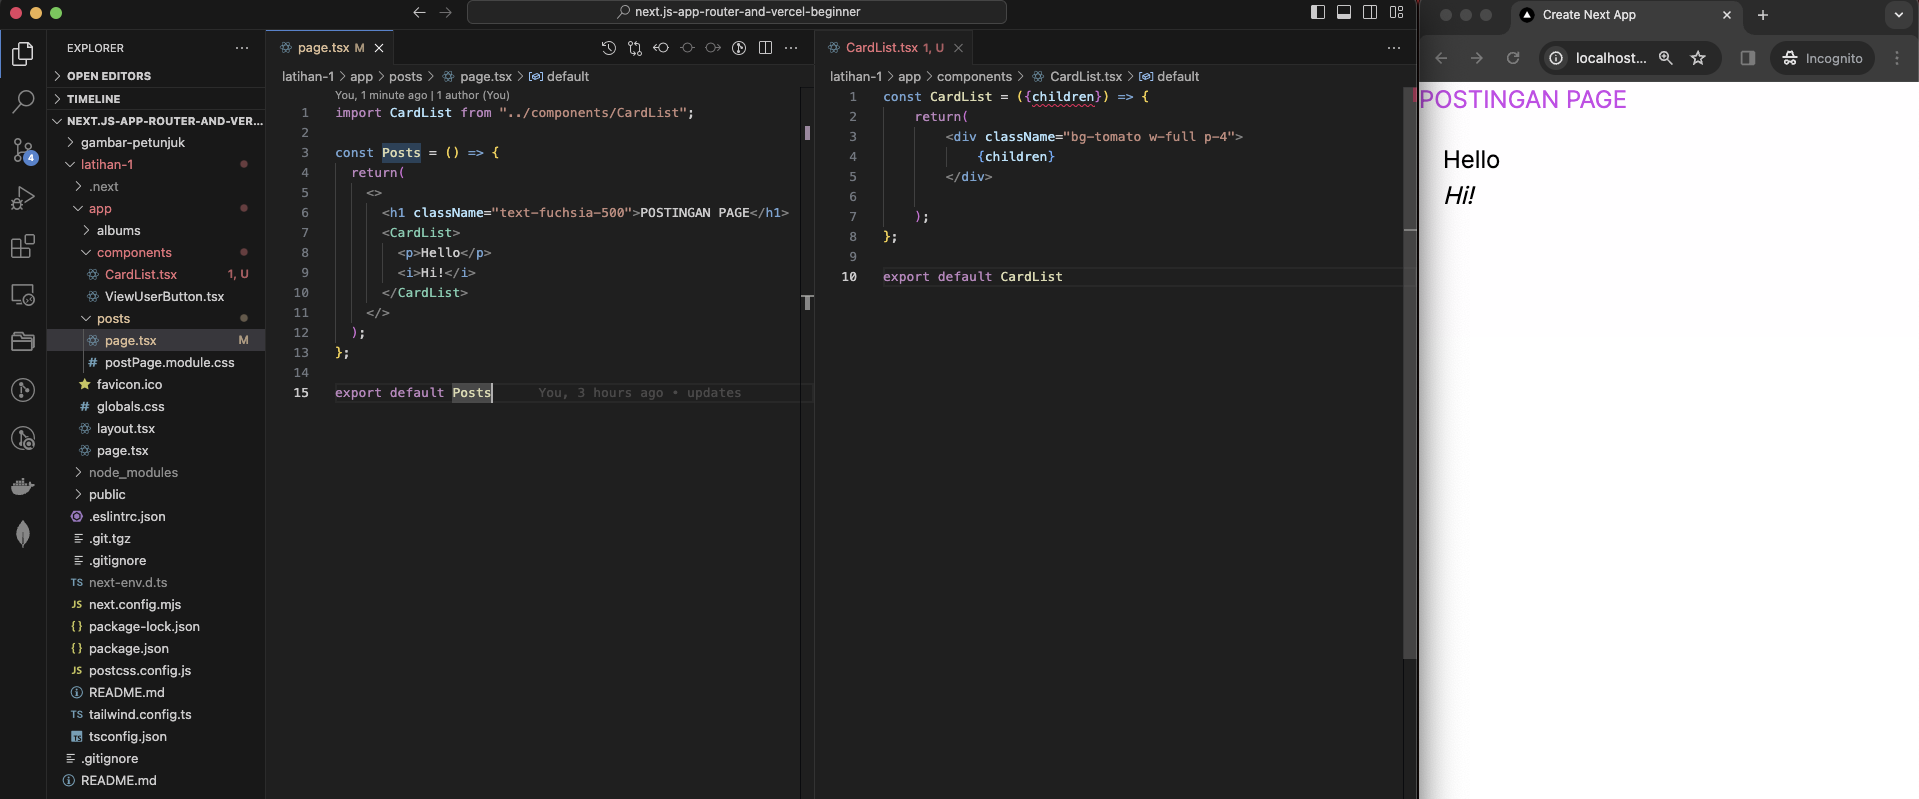
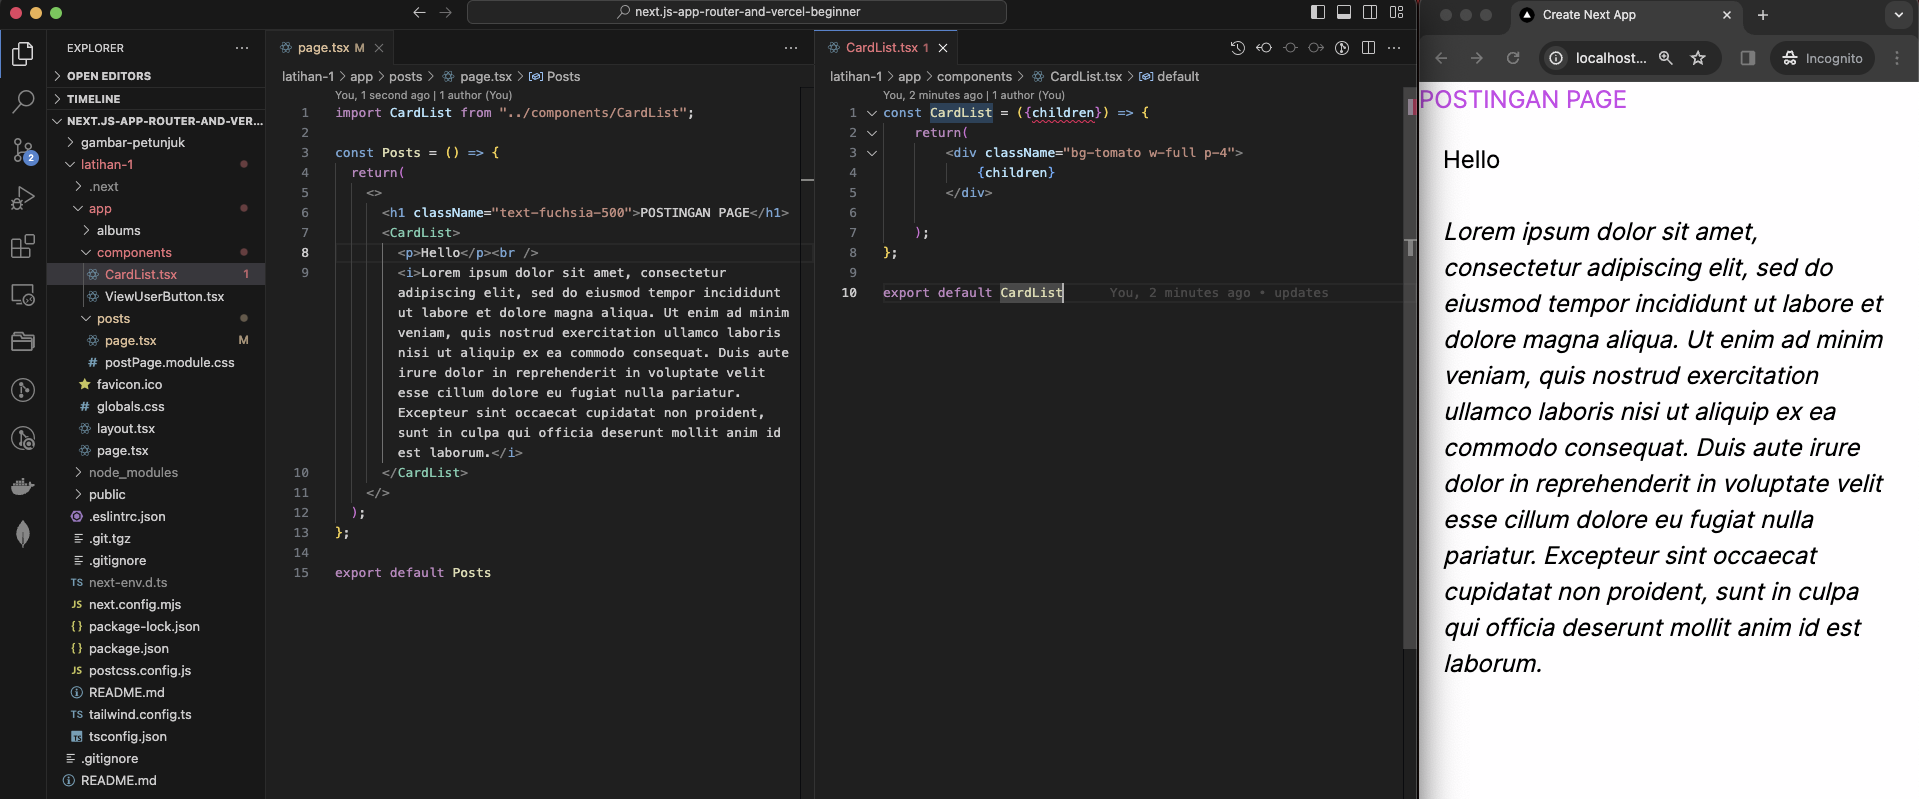
updates

diff --git a/latihan-1/app/posts/page.tsx b/latihan-1/app/posts/page.tsx
@@ -5,8 +5,8 @@ const Posts = () => {
     <>
       <h1 className="text-fuchsia-500">POSTINGAN PAGE</h1>
       <CardList>
-        <p>Hello</p>
-        <i>Hi!</i>
+        <p>Hello</p><br />
+        <i>Lorem ipsum dolor sit amet, consectetur adipiscing elit, sed do eiusmod tempor incididunt ut labore et dolore magna aliqua. Ut enim ad minim veniam, quis nostrud exercitation ullamco laboris nisi ut aliquip ex ea commodo consequat. Duis aute irure dolor in reprehenderit in voluptate velit esse cillum dolore eu fugiat nulla pariatur. Excepteur sint occaecat cupidatat non proident, sunt in culpa qui officia deserunt mollit anim id est laborum.</i>
       </CardList>
     </>
   );
